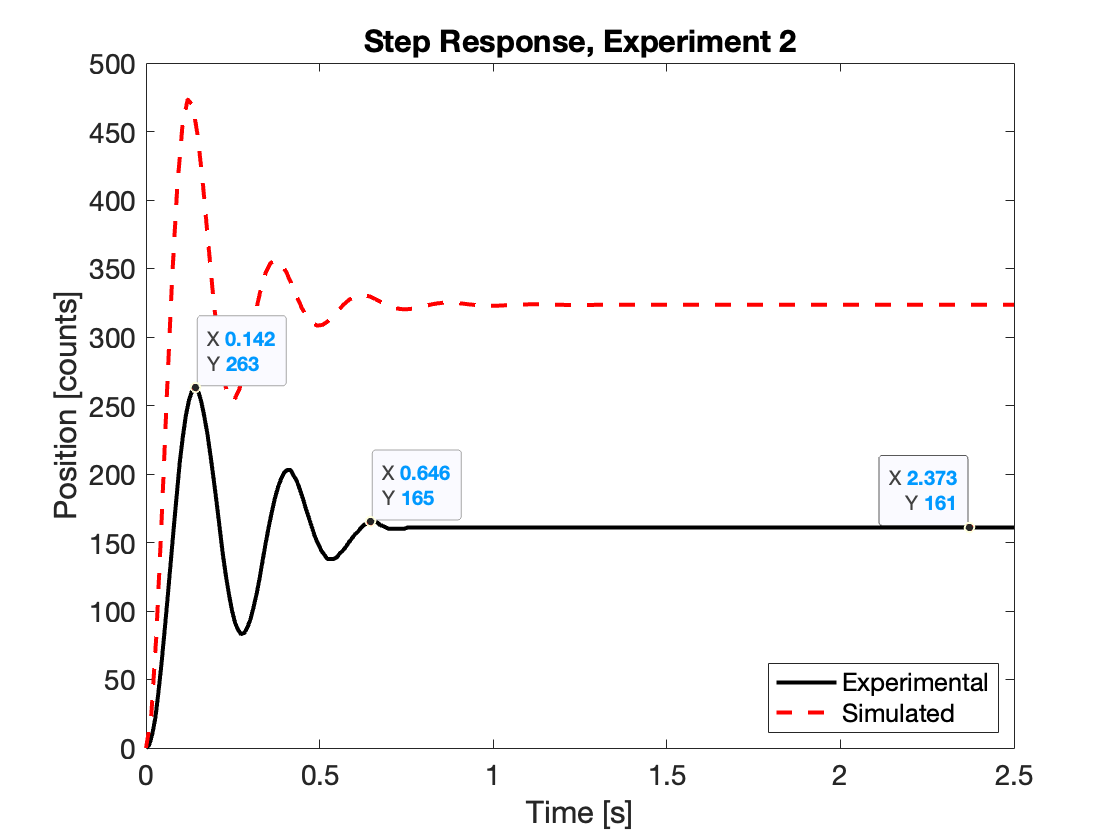
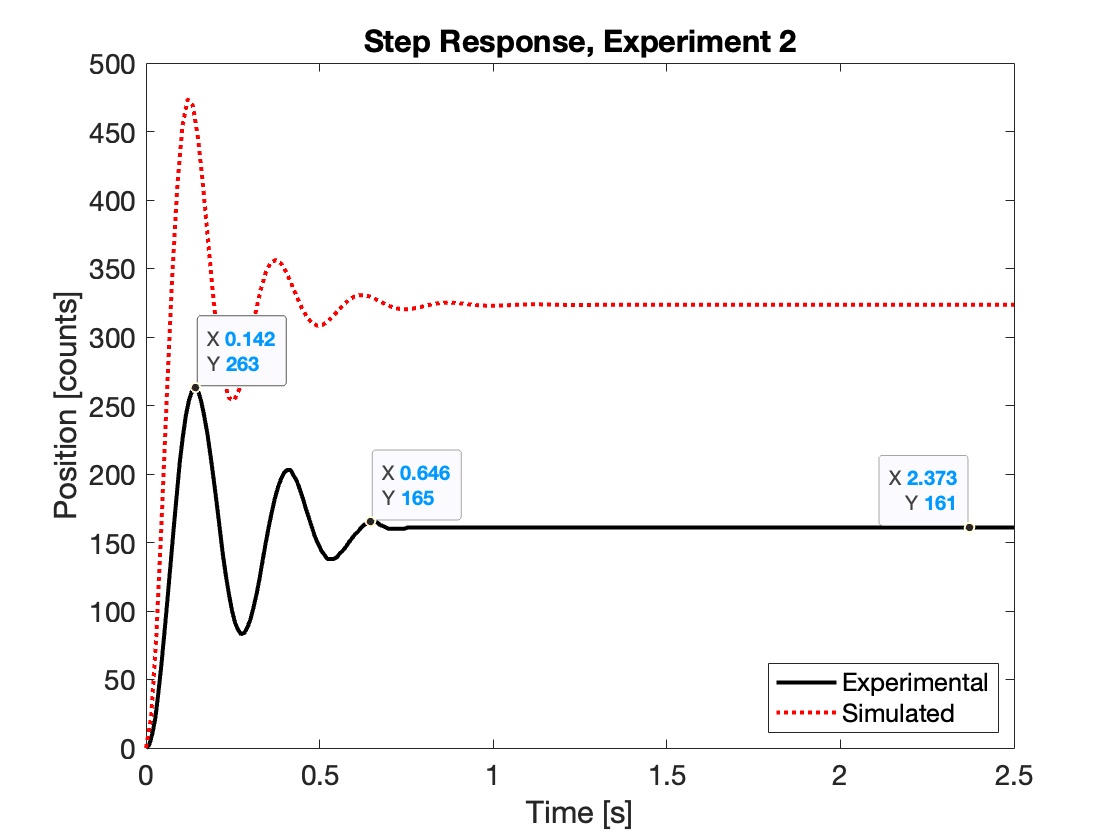
final controls report changes

diff --git a/SensitivityPlots.m b/SensitivityPlots.m
@@ -24,12 +24,12 @@ for i = 1:6
     end
 
     switch i % Determine line style
-        case {1,4} % For less weight
-            linestyle = 'r--';
-        case {2,5} % For default weight
+        case {1,4} % For less mass
+            linestyle = 'r-';
+        case {2,5} % For default mass
             linestyle = 'k-';
-        case {3,6} % For more weight
-            linestyle = 'b--';
+        case {3,6} % For more mass
+            linestyle = 'b-';
     end
 
     plot(t,y,linestyle,'LineWidth',2); hold on;
@@ -40,7 +40,7 @@ for i = 1:2
     subplot(2,1,i);
     title(sprintf('Mass %d Sensitivity Analysis of Closed Loop PID Control',i));
     xlabel('Time [s]'); ylabel('Position [counts]');
-    legend('Less Weight','Default Weight','More Weight','Location','southeast');
+    legend('Less mass','Original mass','More mass','Location','southeast');
     set(gca,'FontSize',14);
     ylim([900 1000]);
 end

diff --git a/CompareOpenLoop.m b/CompareOpenLoop.m
@@ -94,11 +94,15 @@ for m = 1:3 % Set test id
         y_points = [y_max_peak;y_peaks(end);y_plot(floor(end*0.95))];
 
        % Uncomment for visual representation of analysis
-        figure(m);
+        if m > 2
+            figure(m)
+        else
+            subplot(1,2,m);
+        end
         plot(t_plot,y_plot,'k-','LineWidth',2);
         hold on;
         [y_step, t_step] = step(G_ar(m),2.5);
-        plot(t_step,y_step,'r--','LineWidth',2)
+        plot(t_step,y_step,'r:','LineWidth',2)
         plot(t_points,y_points,'r.','MarkerSize',10);
         xlim([t_step(1) t_step(end)]);
         title(sprintf('Step Response, Experiment %d',exp_num));

diff --git a/CompareClosedLoop.m b/CompareClosedLoop.m
@@ -26,7 +26,7 @@ G3 = tf([b2 b1 b0],[a4 a3 a2 a1 a0]);
 D = tf([kd kp ki],[1 0]);
 T = (G3*D)/(1+G3*D);
 [y_step, t_step] = step(ref*T,t(end));
-plot(t_step,y_step,'r--','LineWidth',2);
+plot(t_step,y_step,'r:','LineWidth',2);
 
 title('PID Controller Step Response, r(t) = 1000 counts');
 xlabel('Time [s]'); ylabel('Position [counts]');
